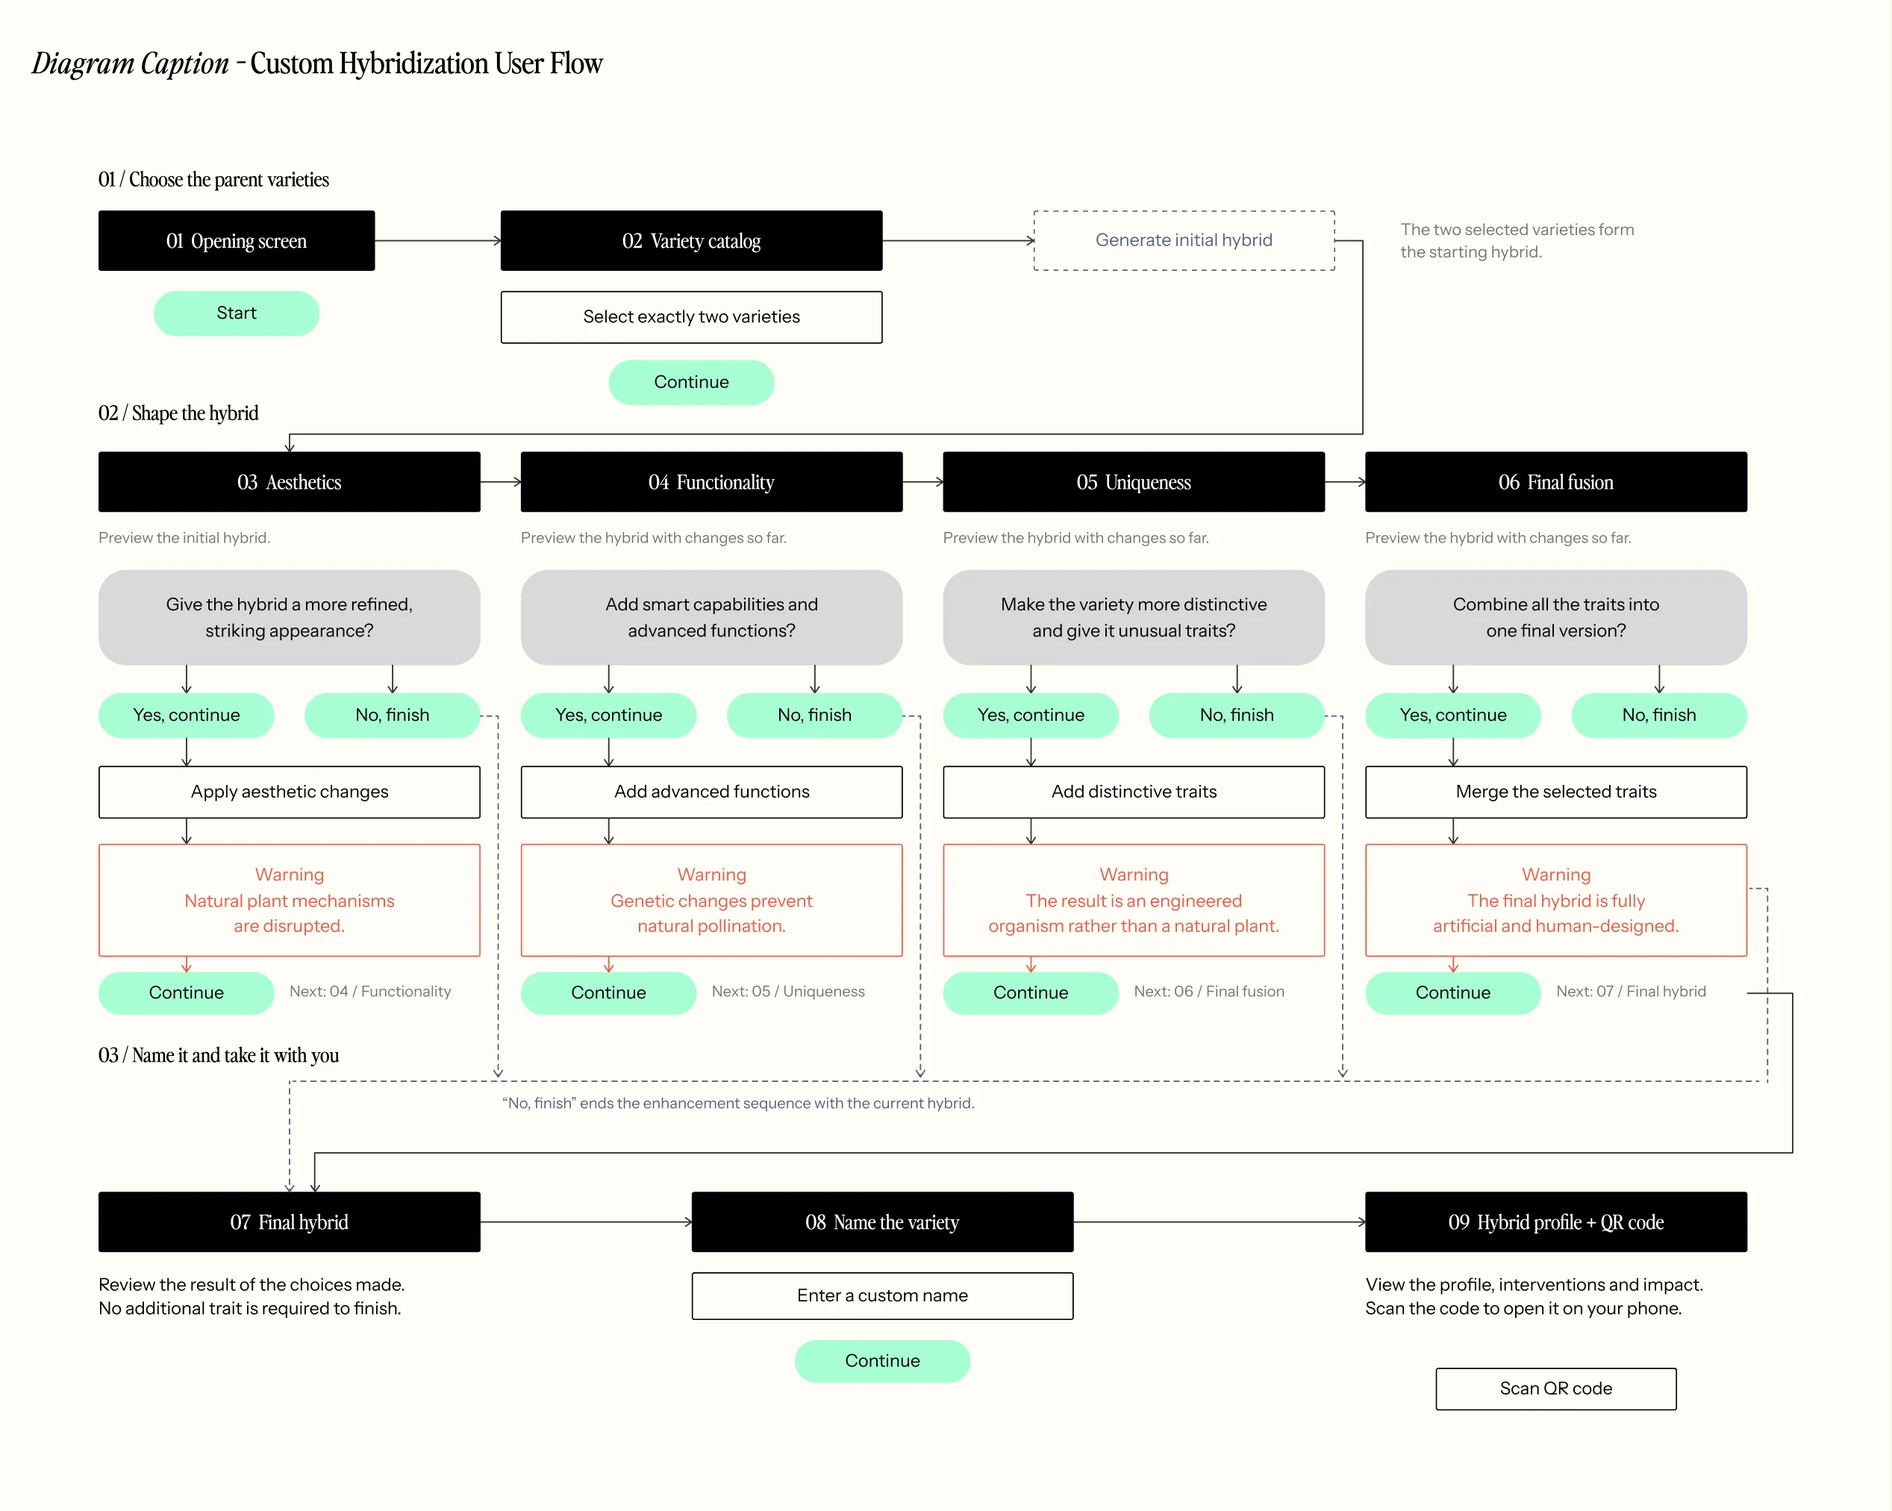
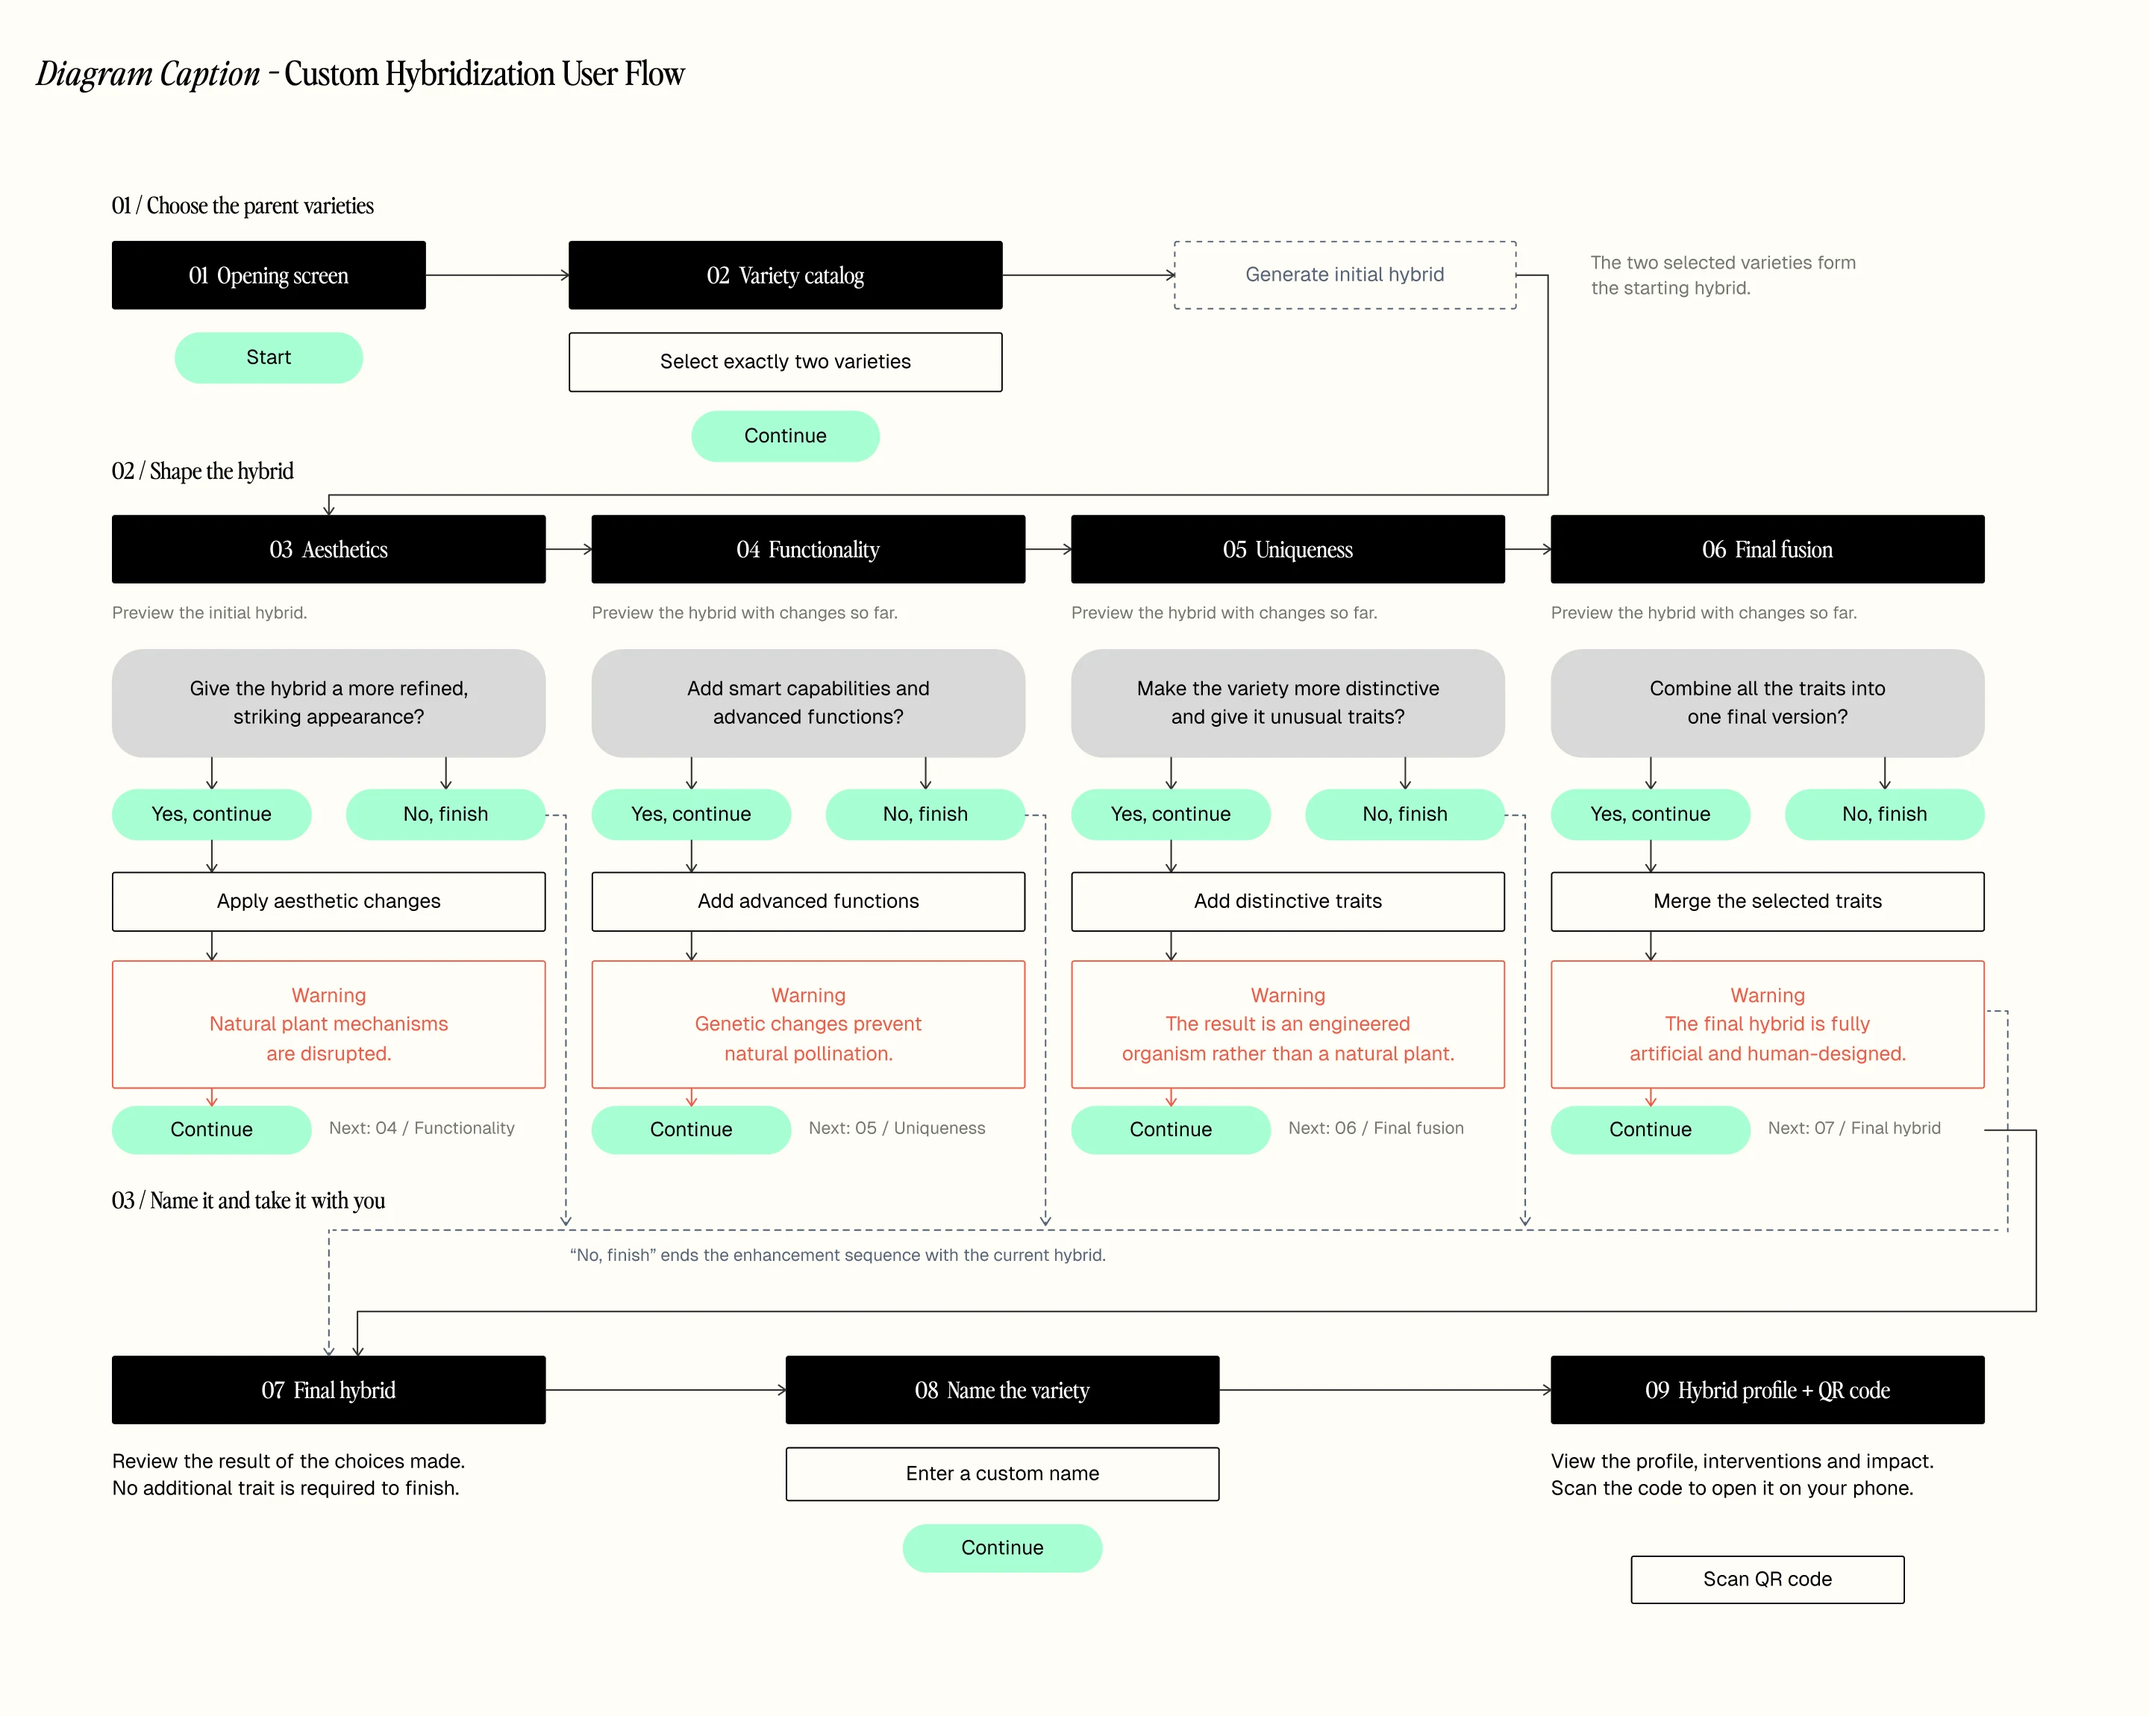
Post Nature: all running text in Geist (info text, user-flow diagram, stages strip)
Claude-Session: https://claude.ai/code/session_01AmrZWkQw9hupbrEkueNUEt

diff --git a/css/style.css b/css/style.css
@@ -334,7 +334,7 @@ video.tile { display: block; background: #000; }
 .case-info__name { font: italic 600 40px / 41px var(--serif); color: #b10a0a; text-transform: uppercase; margin-bottom: 99px; }
 .case-info__tags { display: flex; flex-wrap: wrap; gap: 3px; max-width: 296px; }
 .case-info__tags .tag { border-color: #212121; color: #212121; }
-.case-info__body { width: calc(684 * var(--u)); min-width: 300px; font: 400 16px / 1.2 var(--link); letter-spacing: -0.02em; }
+.case-info__body { width: calc(684 * var(--u)); min-width: 300px; font: 400 16px / 1.36 var(--sans); letter-spacing: 0; }
 .case-label { font: italic 400 14px / 1.16 var(--serif); color: #646464; letter-spacing: -0.02em; margin-bottom: 10px; }
 .case-text p.gap { margin-top: 1.2em; }
 .case-meta { display: flex; gap: 86px; margin-top: 40px; }
